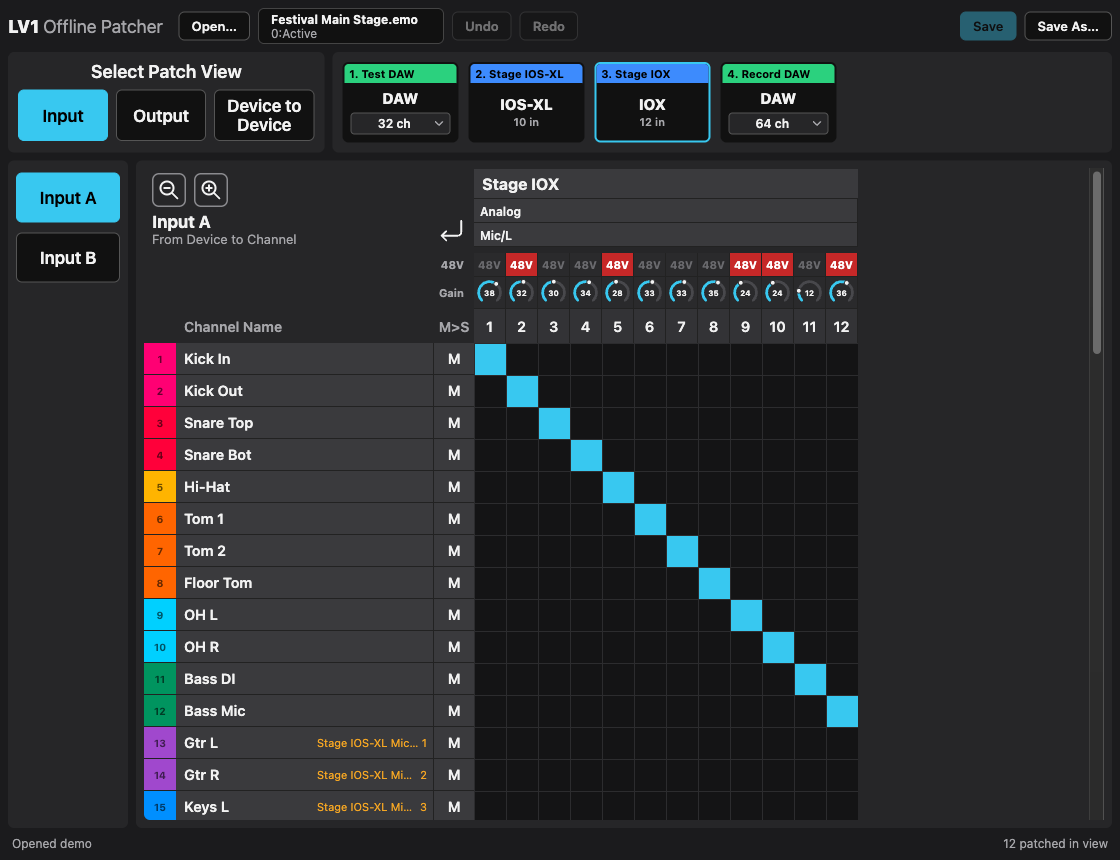
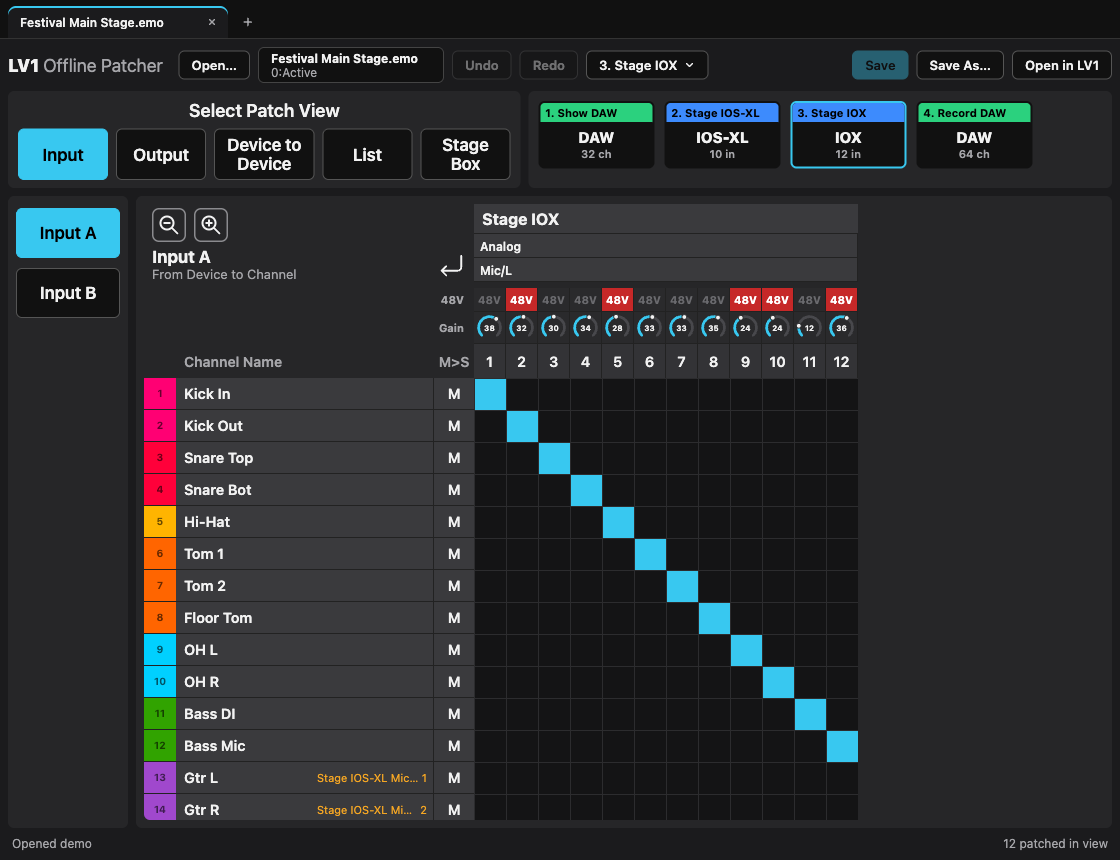
docs: explain motivation, compact usage, update screenshots
Add a Why section (offline patching, workflow tools, note to Waves Audio), shorten the Usage section, replace the main screenshot and add one of the IONIC 24 stage box view.

diff --git a/README.md b/README.md
@@ -3,73 +3,50 @@
 ![LV1 Offline Patcher: Input patch of an IOX with preamp gain and 48V](docs/screenshot.png)
 
 Desktop app for macOS and Windows (Tauri 2 / Rust + Svelte 5) for editing the patch of a Waves LV1 showfile (`.emo`)
-without the I/O hardware being online. The UI follows LV1's Patch page:
+without the I/O hardware being online.
 
-- **Input** (A/B): device inputs → channels (and Talkback)
-- **Output**: Direct (channel direct outs) and Mix Busses (groups, auxes, mains, matrices, cue)
-  → device outputs. The Source column sets the output source: INP, PRE, PST or PSP
+## Why
+
+I want to be able to patch my devices offline: at home, before the show, without the stage boxes and DAWs
+connected. For whatever reason LV1 only lets you patch devices that are currently available in the network. LV1 has
+"offline devices" that can be used as placeholders, but that is inconvenient, and when I tried it a while ago I lost all gain
+settings after swapping them for the real device. Maybe that has improved, but anyway.
+
+This app edits the patch directly in the showfile, for every device in it, online or not. It also adds some
+workflow improvements to patching, especially for DAWs: converting channel direct outs to device to device
+patches (and back), setting up a virtual soundcheck, or copying the patch from one device to another.
+
+It is not meant to replace Waves' offline editor. It does what Waves, for some reason, doesn't let you do
+with your session. Use LV1 for everything else.
+
+**To Waves Audio:** feel free to use the ideas here to make patching in LV1 better. I'd be happy if this app
+became unnecessary.
+
+## Usage
+
+The views follow LV1's Patch page:
+
+- **Input** (A/B): device inputs → channels, with gain and 48V of the selected device
+- **Output**: channel direct outs and mix busses → device outputs, including the output source (INP/PRE/PST/PSP)
 - **Device to Device**: device inputs → device outputs
-- **List**: everything patched on one device as a list: each input with gain, 48V and what it feeds, each
-  output with its source (All / Inputs / Outputs). If an output comes straight from a device input (device to
-  device), the list also shows the mixer channels that input feeds. **Export CSV…** saves it as a file
-- **Stage Box**: the connectors of one I/O device, each labeled with the channel or mix patched to it, so you
-  can cable the box without a list. The IONIC 16/24, LV1 Classic, DiGiGrid IOS-XL, IOX and D and DSPRO StageGrid
-  1000/4000 are drawn front and back as on the hardware (choose Front & Back, Front or Back); parts that are
-  not patch points (fan, power, network) are only faint outlines. Other devices show their connectors grouped
-  by port type (`src/lib/panels.ts` has the panel layouts). A red LED marks inputs with 48V on; phones and AES pairs share one connector (L/R). Read-only;
-  **Print…** prints the panels on white in landscape for the stage crew (or saves them as PDF from the print dialog);
-  **Print All…** prints every stage box of the show, one per page
+- **List**: everything patched on one device, exportable as CSV
+- **Stage Box**: the device's connectors labeled with what is patched to them, printable for the stage crew
 
-The device button in the toolbar (it shows the selected device) opens the device menu; a right-click on a
-device opens it too. For a DAW it sets the **Driver Channels** (patches on channels that no longer exist are
-removed). **Convert DO → D2D** (direct outs to device to device) repatches
-all channel direct outs on it straight from the device inputs that feed those channels (Input A,
-or Input B if A is empty), bypassing the mixer. Channels without an input patch are skipped and listed in
-the status bar. **Convert D2D → DO** goes the other way: every device input
-patched to the device becomes the direct out of the channel it feeds (if several channels use it:
-Input A first, then the lowest channel number). **Return Outputs to Input B** sets up a virtual
-soundcheck: every output of the device that carries a channel (its direct out, or a device input patched
-straight to the output that feeds the channel's Input A) comes back on the input of the same number of that
-device, patched to Input B of the channel. E.g. Bass on output 11 → input 11 → Bass Input B. Outputs
-without an input of the same number are skipped and listed in the status bar. Each conversion is one undo
-step.
+![Stage Box view of an IONIC 24](docs/stagebox.png)
 
-**Copy Patch from Device…** opens a dialog that gives a device the patch of another device, channel by
-channel. Choose the two devices and **Inputs** and/or **Outputs**; the preview lists every channel that
-changes with its patch now and after the copy. Uncheck channels to leave them as they are (Shift-click
-checks or unchecks a range). Copying inputs repatches everything the other device's inputs feed (channels in
-Input A and B, Talkback, device outputs) from the same inputs of this device. A destination has only one
-source, so these patches move away from the other device, e.g. when swapping a stage box. Copying outputs
-gives every output the source of the same output on the other device, or unpatches it; the other device
-keeps its outputs. Channels the target device doesn't have are listed but can't be copied. A copy is one
-undo step.
+The device menu (toolbar button or right-click on a device) has the workflow tools:
 
-**Export Patch List…** saves a CSV of the device (semicolon separated with decimal comma, for Excel and
-Numbers): every input with gain, 48V and what it feeds, then every output with its source.
+- **Convert DO → D2D / D2D → DO**: turn channel direct outs into device to device patches from the inputs
+  that feed those channels, or back
+- **Return Outputs to Input B**: virtual soundcheck, every recorded channel comes back on Input B
+- **Copy Patch from Device…**: give a device the input and/or output patch of another one, e.g. when
+  swapping a stage box, with a preview per channel
+- **Driver Channels** of a DAW, **Rename…**, **Export Patch List…**
 
-In the Input view, the rows above the column numbers show the preamps of the selected I/O device.
-Click **48V** to switch phantom power. Turn a gain knob by dragging up/down (Shift for fine)
-or with the arrow keys. Double-click (or Enter) types a value: Enter confirms,
-Tab moves to the next input, Esc cancels. Gain can be edited on the IOS-XL and IOX (0 to +59.5 dB
-in 0.5 dB steps) and on the IONIC 16/24 and LV1 Classic (0 to +60 dB in 1 dB steps). Other
-devices show their gain read-only because their range isn't known yet.
-
-Double-click a channel or bus name in the Input or Output view to rename it: Enter confirms, Tab moves to
-the next channel, Esc cancels. Rename a device by double-clicking it or with **Rename…** in the device menu.
-Names are written to the live state of the show; snapshots stored in the file keep
-their names. Each rename is one undo step.
-
-Click a cell to patch or unpatch it. Drag diagonally to patch a range; a drag that starts on a
-patched cell unpatches instead. Click row names to select them (shift for a range, ⌘/Ctrl to
-toggle), then press **Delete**. ⌘Z / ⇧⌘Z undo and redo, ⌘S saves, ⇧⌘S saves a patched copy
-(on Windows: Ctrl+Z, Ctrl+Y, Ctrl+S, Ctrl+Shift+S).
-Orange text marks patches that come from outside the current matrix (another device or source).
-
-Several showfiles can be open at once, in tabs and windows like in a web browser: ⌘T opens a
-new tab, ⌘N a new window, ⌘W closes a tab (asking if it has unsaved changes), ⌃Tab / ⇧⌘] and
-⌘1–9 switch tabs (on Windows: Ctrl+T, Ctrl+N, Ctrl+W, Ctrl+Tab, Ctrl+1–9). Drag a tab along the
-tab bar to reorder it. The button on a tab (or a right-click) moves it into a new window or into
-another open window. A file that is already open is not opened twice, its tab is shown instead.
+Click a cell to patch or unpatch, drag diagonally for a range. Double-click a name to rename it. Drag a
+gain knob or type a value (gain can be edited on IOS-XL, IOX, IONIC 16/24 and LV1 Classic). Several
+showfiles open in tabs and windows. Undo, redo and save use the usual shortcuts; nothing is written until
+you save.
 
 ## How it works
 
@@ -129,4 +106,5 @@ few named channels and patches.
 
 ## License
 
-[MIT](LICENSE). Not affiliated with or endorsed by Waves Audio.
+[MIT](LICENSE). Not affiliated with or endorsed by Waves Audio. The app writes to your showfiles; it makes a
+backup before every save, but keep your own copy of anything that matters.
